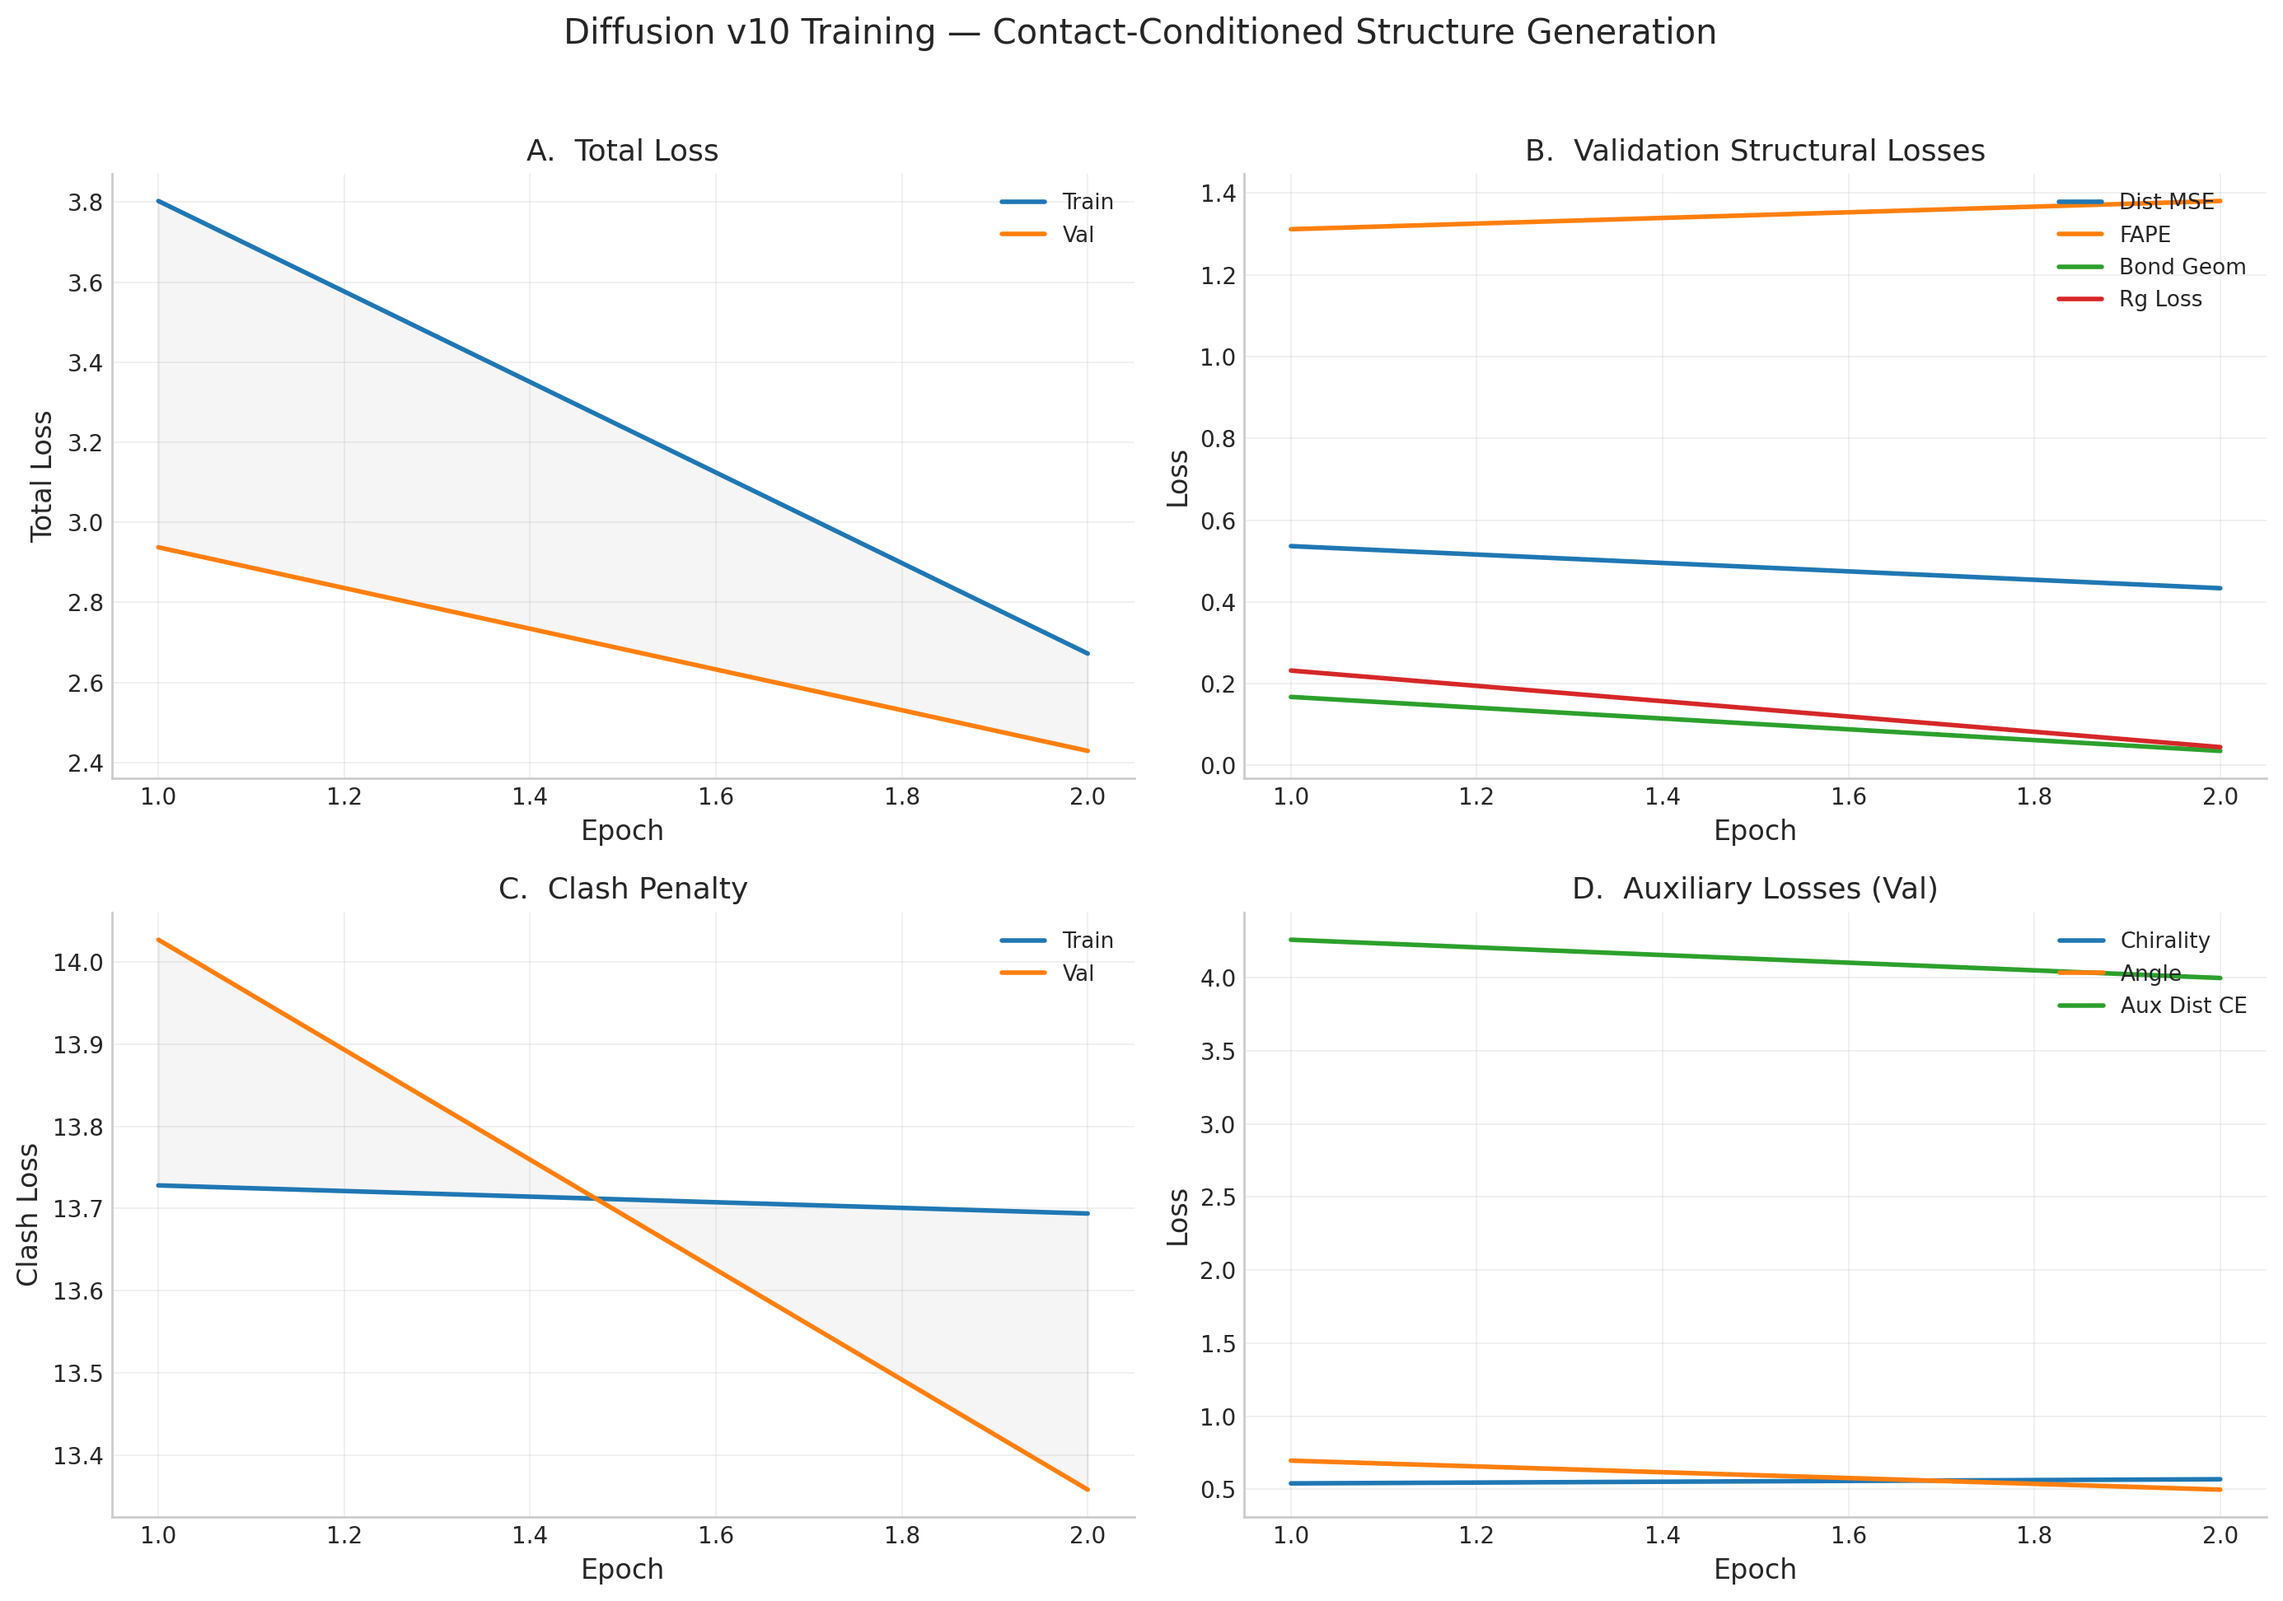
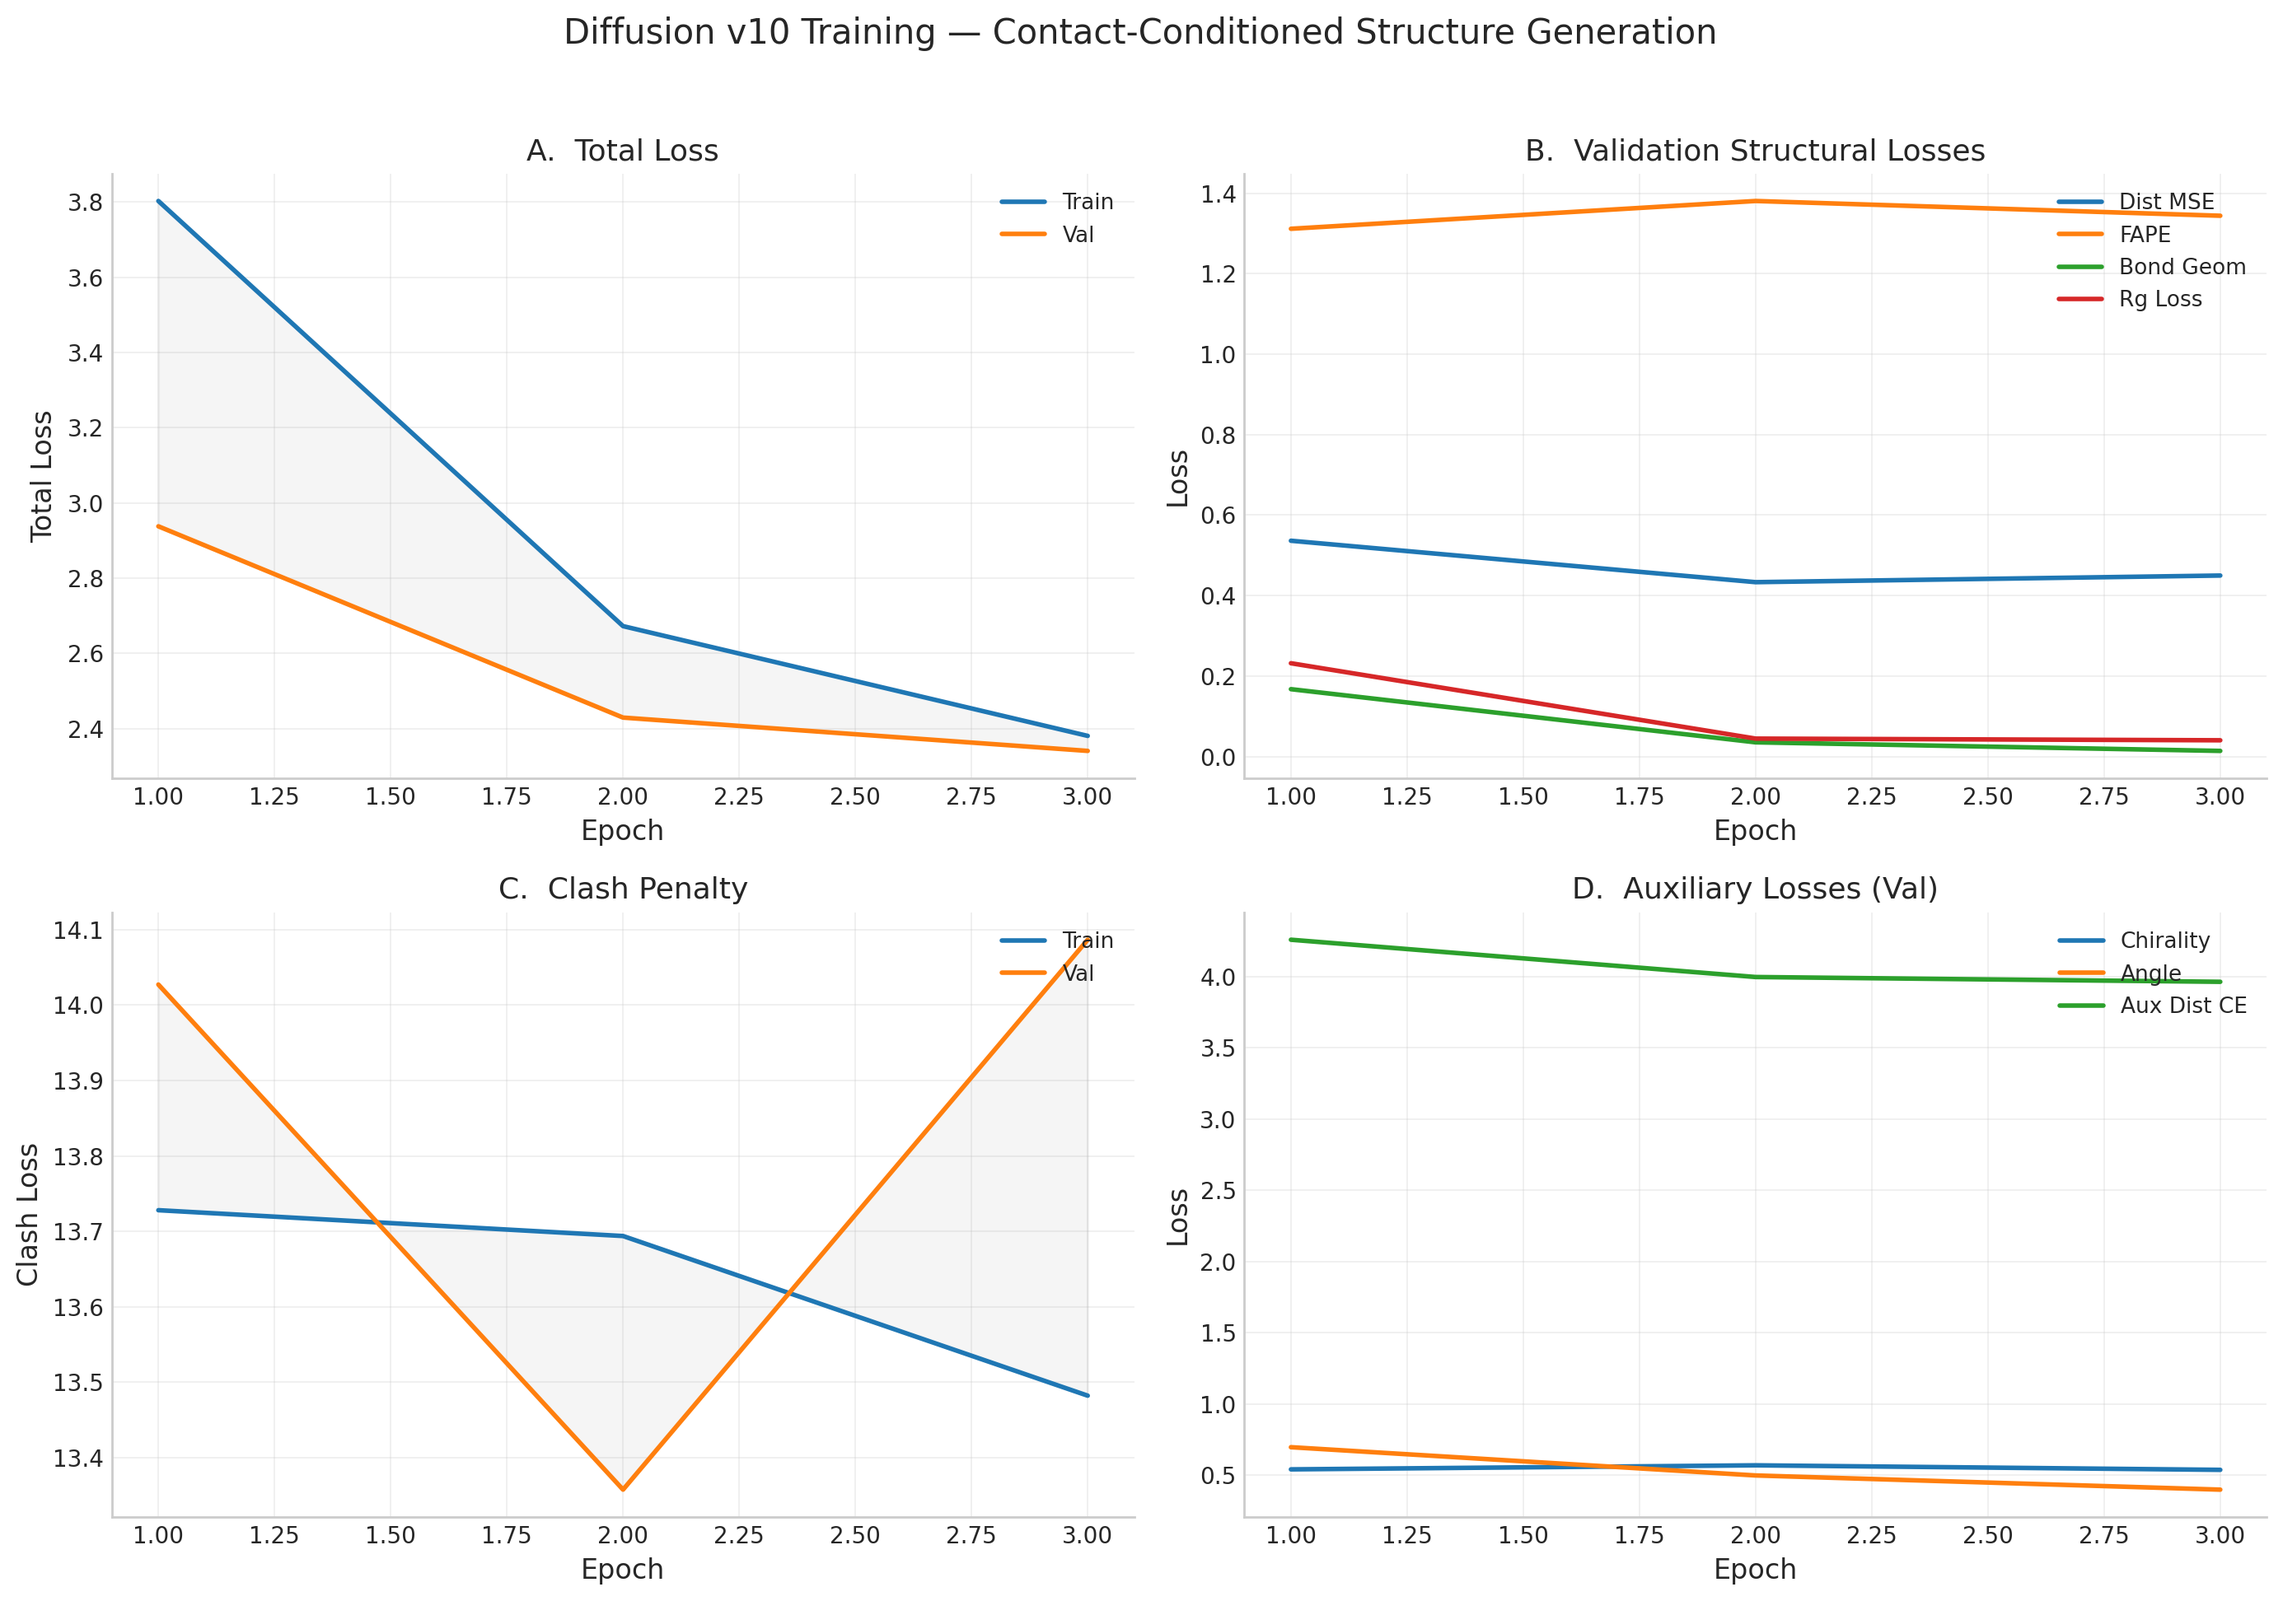
auto-update v10 training progress

diff --git a/index.html b/index.html
@@ -1250,20 +1250,31 @@
                 <td>&mdash;</td>
                 <td><span class="tag tag-best">NEW BEST</span></td>
               </tr>
+              <tr>
+                <td>3</td>
+                <td>2.340</td>
+                <td>0.450</td>
+                <td>1.344</td>
+                <td>0.040</td>
+                <td>0.014</td>
+                <td>&mdash;</td>
+                <td>&mdash;</td>
+                <td><span class="tag tag-best">NEW BEST</span></td>
+              </tr>
               </tbody>
           </table>
         </div>
 
-        <h4 class="training-progress-heading">Loss Curves (through Epoch 2)</h4>
+        <h4 class="training-progress-heading">Loss Curves (through Epoch 3)</h4>
         <div style="text-align: center; margin: 16px 0;">
           <img src="data/training/v10_loss_curves.png" alt="V10 diffusion training loss curves" style="max-width: 100%; border-radius: 6px; border: 1px solid var(--border);">
         </div>
 
         <div class="training-pending-note" id="v9-run2-status">
-          v10: 2 epochs completed. Best val loss: 2.429 at epoch 2. Patience: 0/15. Best DDIM TM-score: 0.101 (E1). Running on single A40 GPU (savio3) with auto-resume.
+          v10: 3 epochs completed. Best val loss: 2.340 at epoch 3. Patience: 0/15. Best DDIM TM-score: 0.101 (E1). Running on single A40 GPU (savio3) with auto-resume.
         </div>
         <div style="color: var(--text-secondary); font-size: 0.85em; margin-top: 8px;" id="v9-last-updated">
-          Last updated: 2026-03-08 21:54 UTC
+          Last updated: 2026-03-08 21:55 UTC
         </div>
       </div>
 
